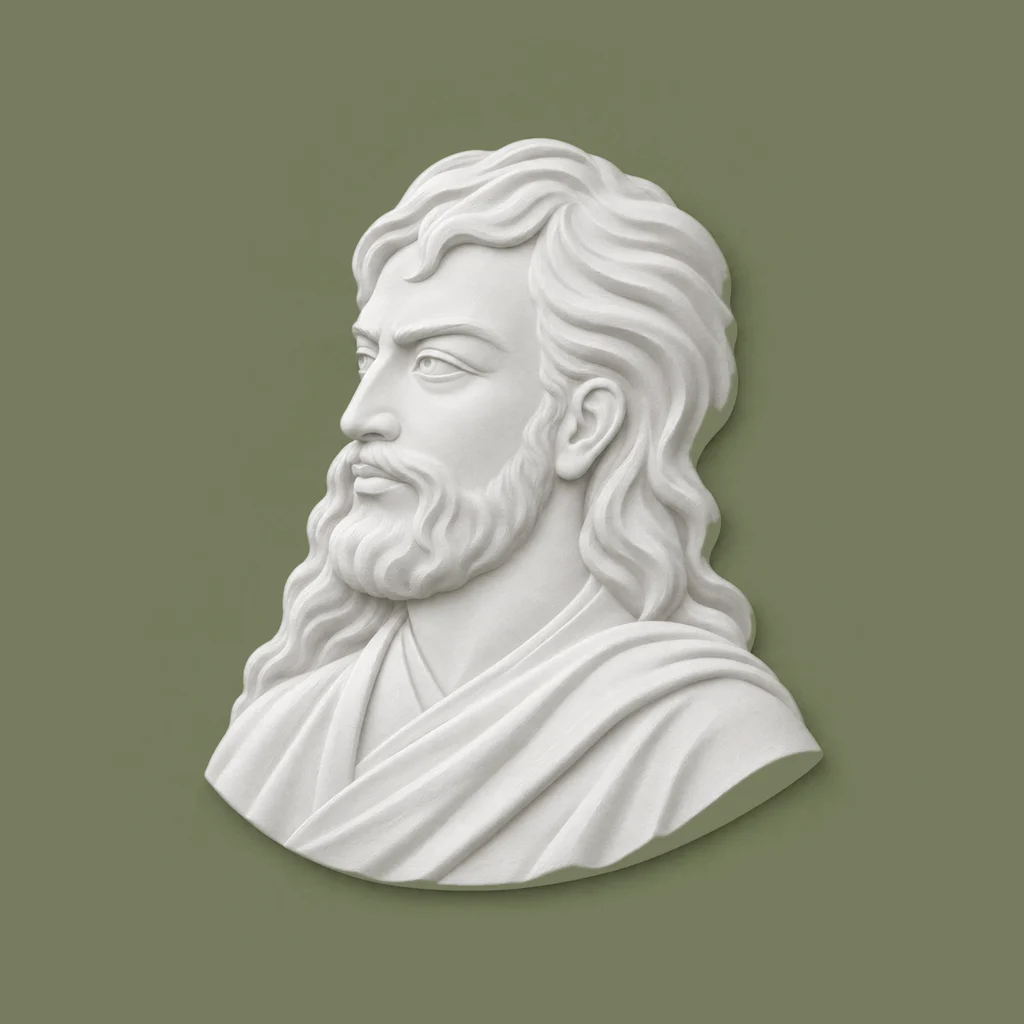
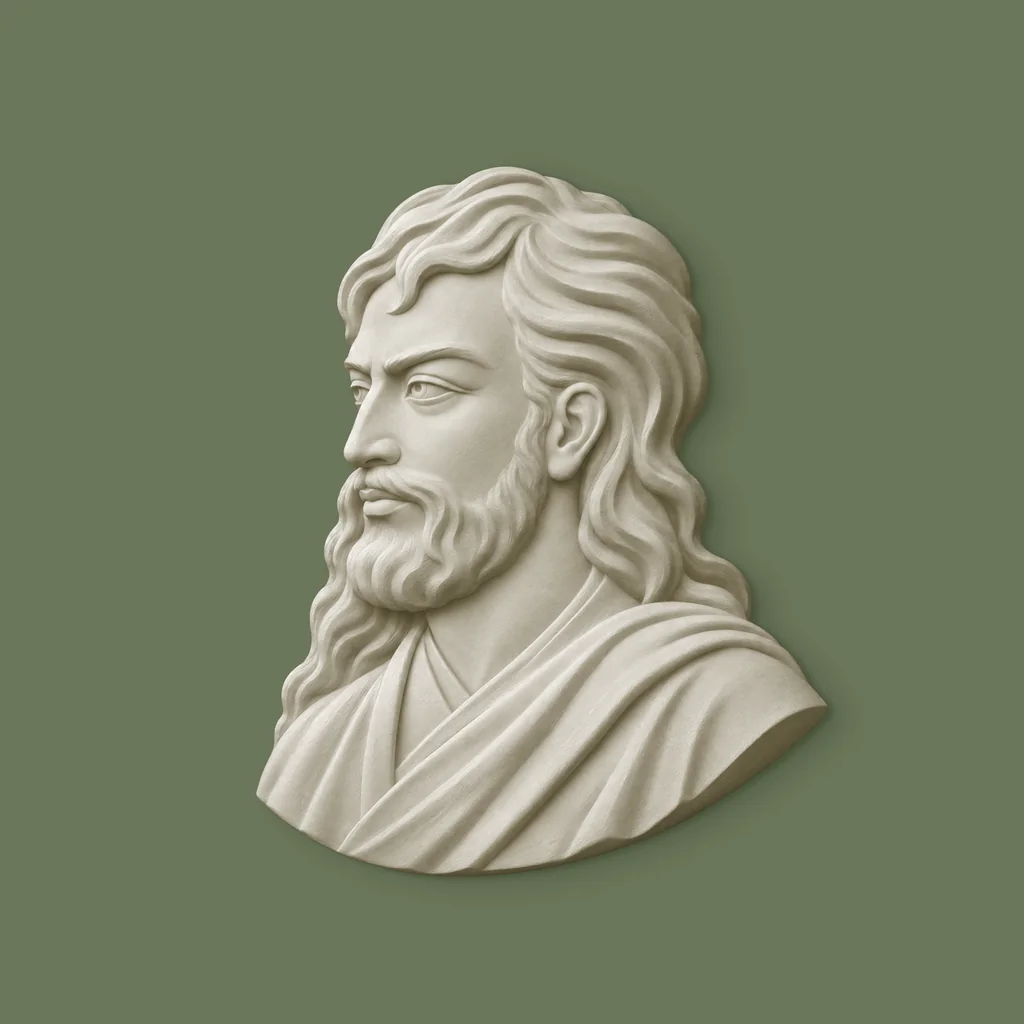
New poet portraits, with a dark-mode set
Wall uses the new light portraits; in dark mode it switches to the dark set and dark wall colours, live when toggled.

Claude-Session: https://claude.ai/code/session_01NEEAowj6psv8KnotH4i5Fq

Changed region(s): [[0.1875, 0.125, 0.8125, 0.875]]

diff --git a/css/app.css b/css/app.css
@@ -40,7 +40,7 @@
   --shadow: 0 1px 2px rgb(0 0 0 / .3), 0 8px 24px rgb(0 0 0 / .35);
   color-scheme: dark;
 }
-:root[data-theme="dark"] .wall-root { --w-paper: var(--bg); --w-paper-ink: var(--ink); --w-paper-mid: var(--muted); --w-accent: var(--accent); }
+:root[data-theme="dark"] .wall-root { --w-plaster: #2f3526; --w-grout: #262b1f; --w-paper: var(--bg); --w-paper-ink: var(--ink); --w-paper-mid: var(--muted); --w-accent: var(--accent); }
 /* ───────── Base ───────── */
 *, *::before, *::after { box-sizing: border-box; }
 html { font-size: 150%; -webkit-text-size-adjust: 100%; text-size-adjust: 100%; }
@@ -386,10 +386,11 @@ main { display: block; padding-top: calc(var(--bar-h) + env(safe-area-inset-top,
 .footer-note a { color: var(--accent); }
 
 /* ───────── Home: the wall ───────── */
-body.wall-mode { overflow: hidden; overscroll-behavior: none; background: #767c5e; }
+body.wall-mode { overflow: hidden; overscroll-behavior: none; background: #6b765a; }
+:root[data-theme="dark"] body.wall-mode { background: #2f3526; }
 body.wall-mode .topbar, body.wall-mode main#main { display: none; }
 .wall-root {
-  --w-plaster: #767c5e; --w-grout: #6a7053; --w-ink: #f1eee4; --w-ink-soft: #d9d6c8;
+  --w-plaster: #6b765a; --w-grout: #5f694f; --w-ink: #f1eee4; --w-ink-soft: #d9d6c8;
   --w-paper: #f5f2e8; --w-paper-ink: #2b2e22; --w-paper-mid: #66695a; --w-accent: #5f6549; --w-gold: #767c5e;
 }
 .wall { position: fixed; inset: 0; background: var(--w-grout); cursor: grab; user-select: none; -webkit-user-select: none; touch-action: none; }
@@ -421,7 +422,7 @@ body.wall-mode .topbar, body.wall-mode main#main { display: none; }
   position: fixed; top: 0; left: 50%; transform: translateX(-50%); z-index: 30;
   display: flex; align-items: center; justify-content: space-between; gap: 48px;
   width: min(880px, 96vw); padding: calc(18px + env(safe-area-inset-top, 0px)) 64px 26px;
-  background: linear-gradient(rgb(106 112 83 / .92), rgb(106 112 83 / .55) 55%, rgb(106 112 83 / 0));
+  background: linear-gradient(color-mix(in srgb, var(--w-grout) 92%, transparent), color-mix(in srgb, var(--w-grout) 55%, transparent) 55%, transparent);
   -webkit-mask-image: linear-gradient(to right, transparent, #000 12%, #000 88%, transparent);
           mask-image: linear-gradient(to right, transparent, #000 12%, #000 88%, transparent);
   transition: opacity .5s;
@@ -436,7 +437,7 @@ body.wall-mode .topbar, body.wall-mode main#main { display: none; }
 .wall-root.focused .w-header { opacity: 0; pointer-events: none; }
 
 .w-veil { position: fixed; inset: 0; z-index: 10; pointer-events: none; opacity: 0; transition: opacity .65s cubic-bezier(.4,0,.2,1);
-  background: rgb(118 124 94 / .9); backdrop-filter: blur(3px); -webkit-backdrop-filter: blur(3px); }
+  background: color-mix(in srgb, var(--w-plaster) 90%, transparent); backdrop-filter: blur(3px); -webkit-backdrop-filter: blur(3px); }
 .w-veil.show { opacity: 1; pointer-events: auto; transition: opacity .8s cubic-bezier(.22,1,.36,1); }
 .w-focus { position: fixed; top: 0; left: 0; z-index: 11; pointer-events: none; opacity: 0;
   transition: transform .65s cubic-bezier(.4,0,.2,1), width .65s cubic-bezier(.4,0,.2,1), height .65s cubic-bezier(.4,0,.2,1), opacity .5s cubic-bezier(.4,0,.2,1); will-change: transform; }

diff --git a/js/wall.js b/js/wall.js
@@ -11,7 +11,15 @@ const POETS = [
   { slug: 'ferdousi', era: '۳۲۹ – ۴۱۱ ق · مشهد', full: 'حکیم ابوالقاسم فردوسی توسی', name: 'فردوسی', bayt: ['توانا بود هر که دانا بود', 'ز دانش دل پیر برنا بود'] },
   { slug: 'saeb', era: '۱۰۰۱ – ۱۰۸۰ ق · اصفهان', full: 'صائب تبریزی', name: 'صائب', bayt: ['اظهار عجز پیش ستمپیشگان خطاست', 'اشک کباب باعث طغیان آتش است'] },
 ];
-const img = (p) => `img/poets/${p.slug}.webp`;
+const isDark = () => document.documentElement.dataset.theme === 'dark';
+const img = (p) => `img/poets/${p.slug}${isDark() ? '-dark' : ''}.webp`;
+// Swap portraits live when the reader toggles dark mode.
+new MutationObserver(() => {
+  document.querySelectorAll('.w-tile img, #wFocus img').forEach((i) => {
+    const src = i.getAttribute('src');
+    if (src) i.setAttribute('src', src.replace(/(-dark)?\.webp$/, isDark() ? '-dark.webp' : '.webp'));
+  });
+}).observe(document.documentElement, { attributes: true, attributeFilter: ['data-theme'] });
 const fa = (n) => String(n).replace(/\d/g, (d) => '۰۱۲۳۴۵۶۷۸۹'[d]);
 const esc = (s) => String(s ?? '').replace(/[&<>"']/g, (c) => ({ '&': '&amp;', '<': '&lt;', '>': '&gt;', '"': '&quot;', "'": '&#39;' }[c]));
 

diff --git a/sw.js b/sw.js
@@ -1,9 +1,10 @@
 // Service worker: app shell is precached; poem data (immutable, pinned commit) is cached on first read.
-const SHELL = 'sp-shell-v5';
+const SHELL = 'sp-shell-v6';
 const DATA = 'sp-data-v1';
 const ASSETS = [
   './', 'index.html', 'css/app.css', 'js/app.js', 'js/data.js', 'js/store.js', 'js/share.js', 'js/wall.js', 'js/sheetdrag.js',
   'img/poets/hafez.webp', 'img/poets/saadi.webp', 'img/poets/moulavi.webp', 'img/poets/khayyam.webp', 'img/poets/ferdousi.webp', 'img/poets/saeb.webp',
+  'img/poets/hafez-dark.webp', 'img/poets/saadi-dark.webp', 'img/poets/moulavi-dark.webp', 'img/poets/khayyam-dark.webp', 'img/poets/ferdousi-dark.webp', 'img/poets/saeb-dark.webp',
   'manifest.webmanifest', 'icons/icon.svg', 'icons/icon-192.png', 'icons/icon-512.png',
   'fonts/lateef-arabic-200-normal.woff2', 'fonts/lateef-arabic-300-normal.woff2', 'fonts/lateef-arabic-500-normal.woff2', 'fonts/lateef-latin-300-normal.woff2', 'fonts/lateef-latin-500-normal.woff2',
   ];
